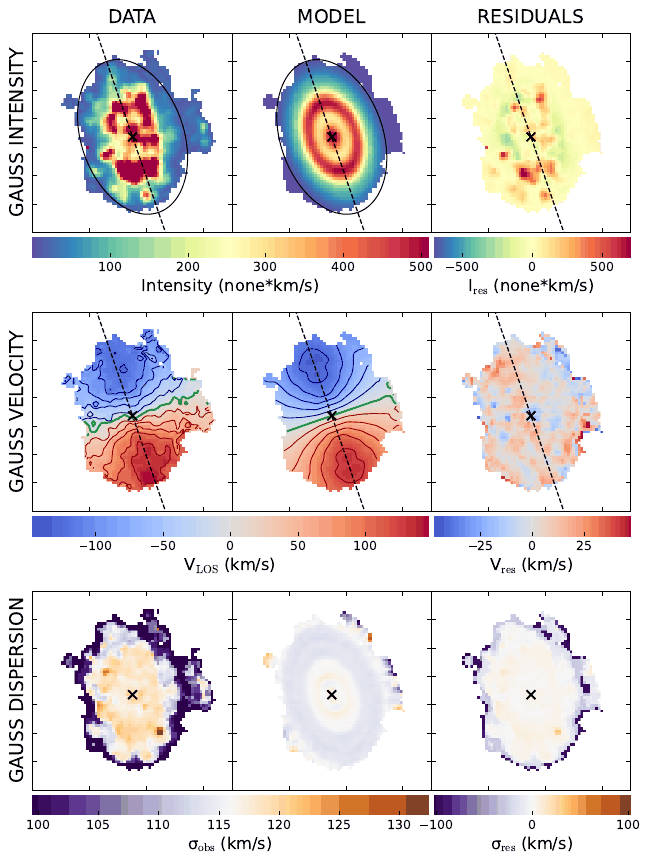
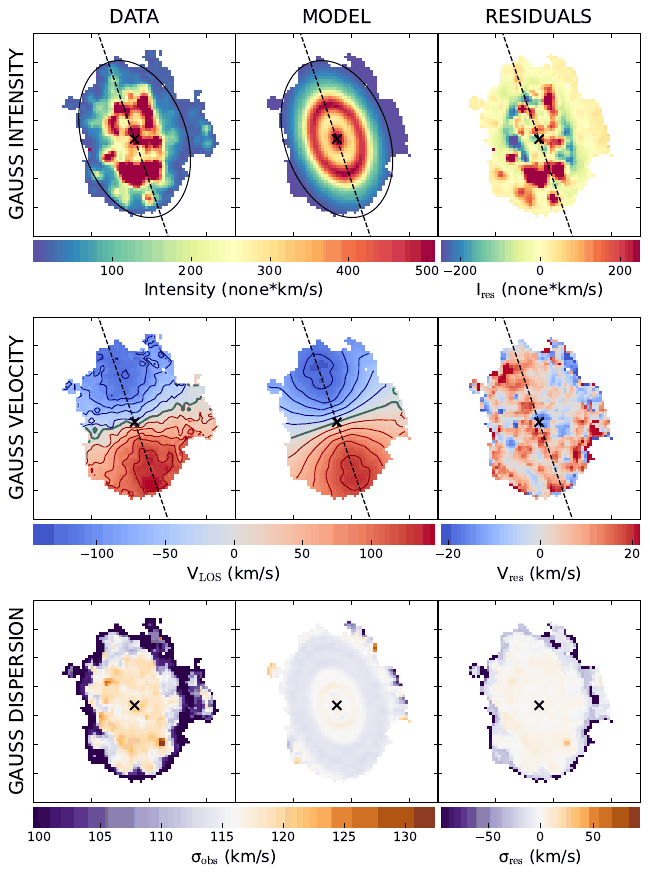
3DFIT maps: the residual colour scale over 95% of the pixels
The scale of the residual maps (_maps_*.pdf of 3DFIT, also METHOD GLOBAL and BAYESIAN) covered 99.5% of the
pixels, so a few large residuals (noise at the edges of the maps) set it and the maps were almost uniform (NGC 2403:
velocity +-207 km/s for 68% of the pixels within 8 km/s, dispersion +-80). It now covers 95% of the pixels shown,
symmetric about 0, as the residual maps of WINDFIT; the larger residuals saturate. The figures of the example pages
are remade from the outputs of the examples.

diff --git a/tests/test_bbarolo.py b/tests/test_bbarolo.py
@@ -5486,23 +5486,26 @@ def test_task_python_values_of_fit_options():
 def test_kinmaps_residual_scale():
     """The colour scale of the residual maps (plot_kinmaps) is symmetric about 0 and covers the residuals of both
     signs: it was set by the upper percentile only (as in C++), so residuals mostly negative (a model dispersion
-    above that of the data) were all at the bottom of the scale."""
+    above that of the data) were all at the bottom of the scale. It covers 95% of the pixels: it covered 99.5%, so
+    a few large residuals (1% of the pixels, 20 times the others) set it and the map was almost uniform."""
     import matplotlib.pyplot as plt
     from bbarolo.plots import fit3d
     ny = nx = 40
     yy, xx = np.mgrid[:ny, :nx]
     rng = np.random.default_rng(1)
     mom0 = np.exp(-((xx - 20) ** 2 + (yy - 20) ** 2) / 100.)
-    mom1 = 10. * (xx - 20.)
+    mom1 = 10. * (xx - 20.) + rng.normal(0, 2, (ny, nx))
+    mom1[rng.random((ny, nx)) < 0.01] = 200.                # velocity residuals: 0 +- 2, 1% of the pixels ~200
     mom2 = 30. + rng.normal(0, 3, (ny, nx))
-    models = (mom0, mom1, np.full((ny, nx), 60.))         # dispersion residuals: -30 +- 3
+    models = (mom0, 10. * (xx - 20.), np.full((ny, nx), 60.))   # dispersion residuals: -30 +- 3
     rings = {k: np.array(v, float) for k, v in dict(rad=[2, 6, 10], pa=[90] * 3, xpos=[20] * 3, ypos=[20] * 3,
                                                        inc=[60] * 3, vsys=[0] * 3).items()}
     fig = fit3d.plot_kinmaps((mom0, mom1, mom2), models, rings, box=(0, nx - 1, 0, ny - 1), pixscale=1.)
     norms = [ax.get_images()[0].norm for ax in fig.axes if ax.get_images()]
     plt.close(fig)
-    res2 = norms[8]                                         # third row (dispersion), third column (residuals)
-    assert res2.vmin == -res2.vmax and res2.vmin < -35
+    res1, res2 = norms[5], norms[8]                         # second, third row (velocity, dispersion), residuals
+    assert res2.vmin == -res2.vmax and res2.vmin < -33
+    assert res1.vmin == -res1.vmax and 3 < res1.vmax < 6
 
 
 def test_plot_scripts_standalone(tmp_path):

diff --git a/bbarolo/plots/fit3d.py b/bbarolo/plots/fit3d.py
@@ -721,9 +721,15 @@ def plot_kinmaps(maps, models, rings, *, box, pixscale, bunit="",
                 axis.tick_params(labelbottom=False, labelleft=False, right=True, top=True)
                 axis.set_xlim(ext[0], ext[1])
                 axis.set_ylim(ext[2], ext[3])
-                if j == 2:                  # symmetric about 0, wide enough for both signs
-                    vmax = np.nanmax(np.abs(interval.get_limits(to_plot[j][i])))
-                    norm = mpl.colors.Normalize(vmin=-vmax, vmax=vmax)
+                if j == 2:
+                    # (the residuals: symmetric about 0, over 95% of the pixels shown, of both signs: the few
+                    # largest residuals, e.g. noise at the edges, saturate instead of washing out the map)
+                    res = to_plot[j][i] * maskmap
+                    res = np.abs(res[np.isfinite(res)])
+                    vres = float(np.percentile(res, 95)) if res.size else 1.
+                    if not vres > 0:
+                        vres = 1.
+                    norm = mpl.colors.Normalize(vmin=-vres, vmax=vres)
                 pp = np.pad(to_plot[j][i] * maskmap, (pad_y, pad_x), mode="constant", constant_values=np.nan)
                 axis.imshow(pp, origin="lower", cmap=cmap, norm=norm, aspect="auto", extent=ext,
                             interpolation="nearest")

diff --git a/CHANGES.md b/CHANGES.md
@@ -842,6 +842,11 @@ Bugs marked **(C++)** are also in the C++ BBarolo 1.8; the others were introduce
 
 ### Changed
 
+- **The colour scale of the residual maps of 3DFIT (`_maps_*.pdf`, also METHOD GLOBAL and BAYESIAN) covers 95% of
+  the pixels shown**, symmetric about 0, as that of WINDFIT; the larger residuals saturate. It covered 99.5% of the
+  pixels, so a few large residuals (noise at the edges of the maps) set it and the maps were almost uniform: NGC 2403
+  velocity ±207 km/s for 68% of the pixels within 8 km/s, now ±27; dispersion ±80, now ±21.
+
 - **The moment maps of WINDFIT (`maps/`, `_maps_wind.pdf`) use the detections of a mask of a region**: with `MASK
   FILE(...)` or `NONE` the maps of the data use only the voxels of the mask detected as `MASK SMOOTH` (the cube
   smoothed to `FACTOR` times the beam, above `BLANKCUT` times its noise), and those of the model the same voxels
